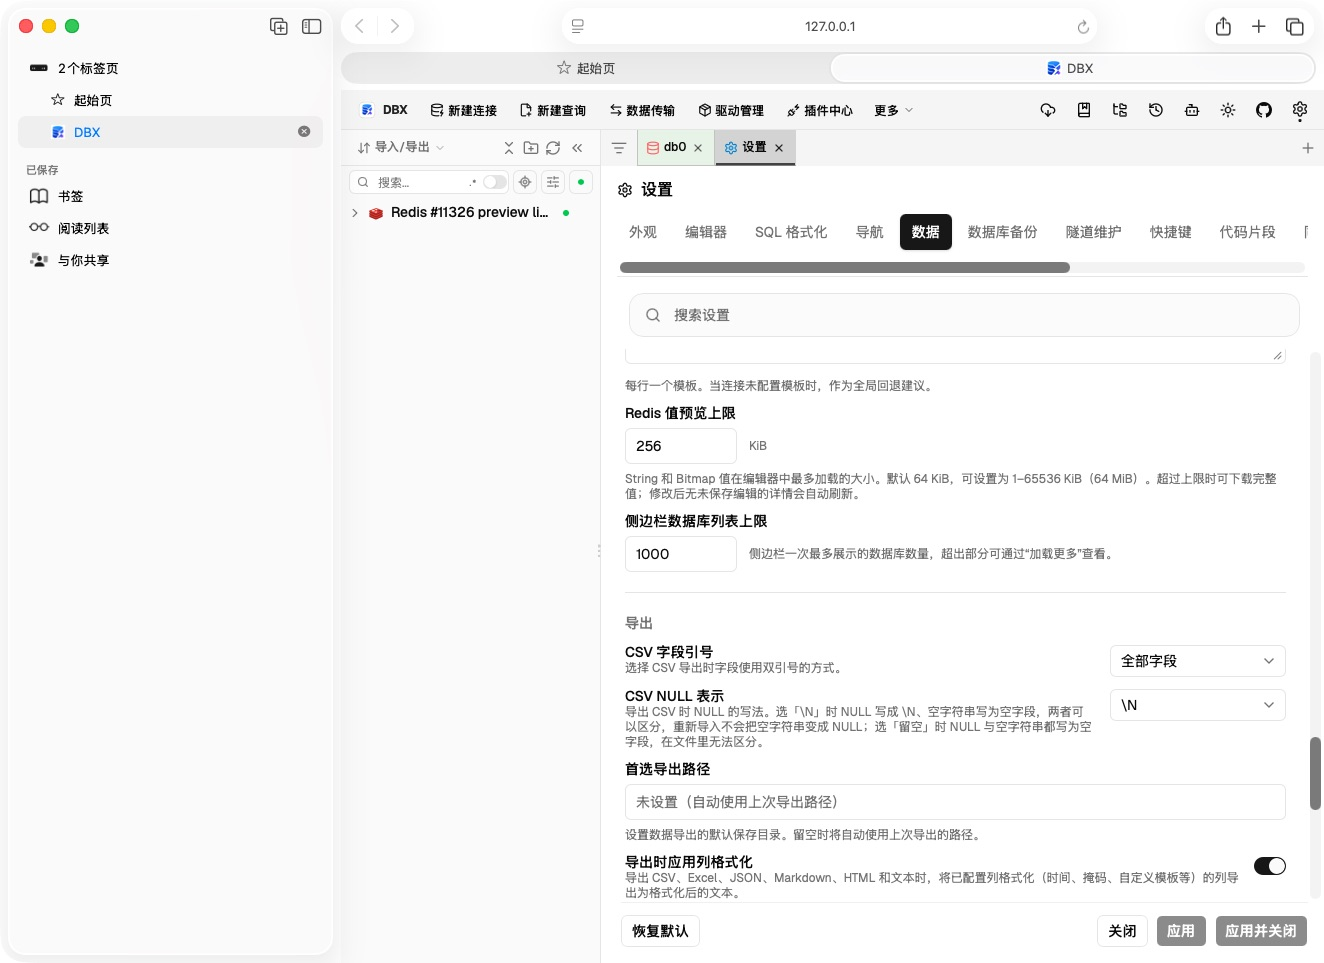
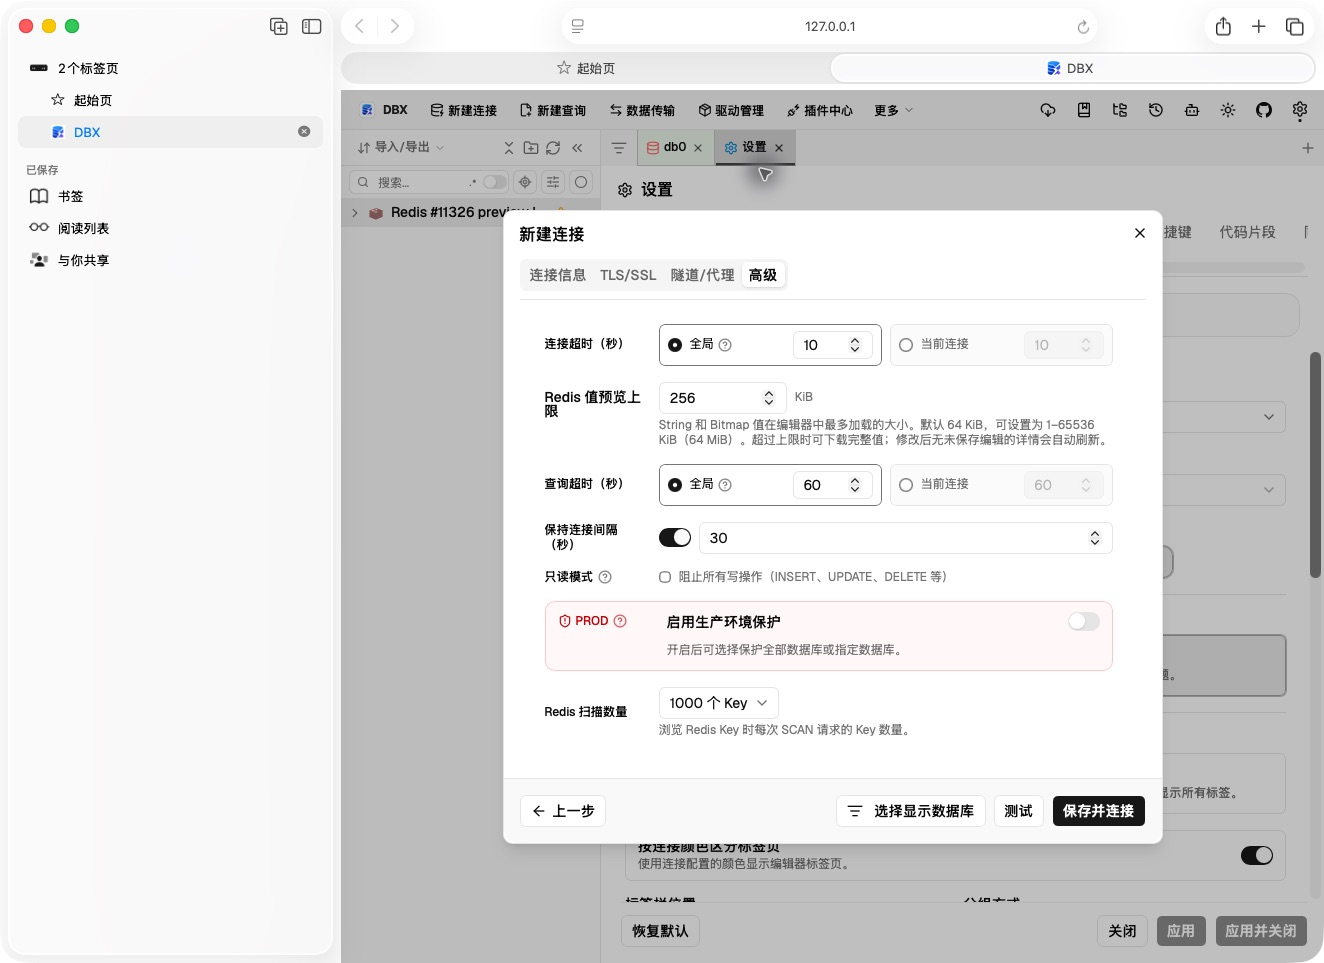
docs(testing): update Redis advanced setting screenshot

diff --git a/docs/testing/redis-value-preview-11326.md b/docs/testing/redis-value-preview-11326.md
@@ -2,7 +2,7 @@
 
 Verified on macOS 26.3 with the local DBX Web build on 2026-10-14.
 
-The new setting is under **Settings → Data → Redis**. It defaults to 64 KiB and
+The new setting is under **Redis connection → Advanced settings**. It is stored globally and applies to every Redis connection. It defaults to 64 KiB and
 accepts 1–65536 KiB. The selected value is passed to the Redis String/Bitmap
 preview request; complete downloads still use the raw-value endpoint.
 
